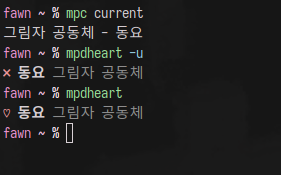
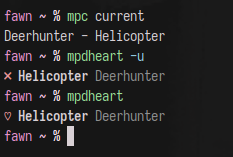
📝 doc(readme): update screenshot, use better wording

Changed region(s): [[0.0, 0.0255, 0.721, 0.9427]]

diff --git a/README.md b/README.md
@@ -38,7 +38,7 @@ as simple as that!
 
 mpdheart can be configured by editing the configuration file at `~/.config/mpdheart/config.toml` or `$XDG_CONFIG_HOME/mpdheart/config.toml`
 
-if not found, mpdheart will attempt to write an empty config in that path, you need to at least edit the last.fm username and password to use mpdheart
+if the config is not found, it will attempt to write an empty config in that path, you need to at least edit the last.fm username and password to be able to un/love tracks
 
 after the first _successful_ run, the config will be lossly rewritten to add the last.fm session key, this means any comments will be lost. this only happens once
 
@@ -56,6 +56,6 @@ password = "awa" # required
 
 can also be found at [config/example.toml](config/example.toml)
 
-### License
+## License
 
 [Apache-2.0](LICENSE)
